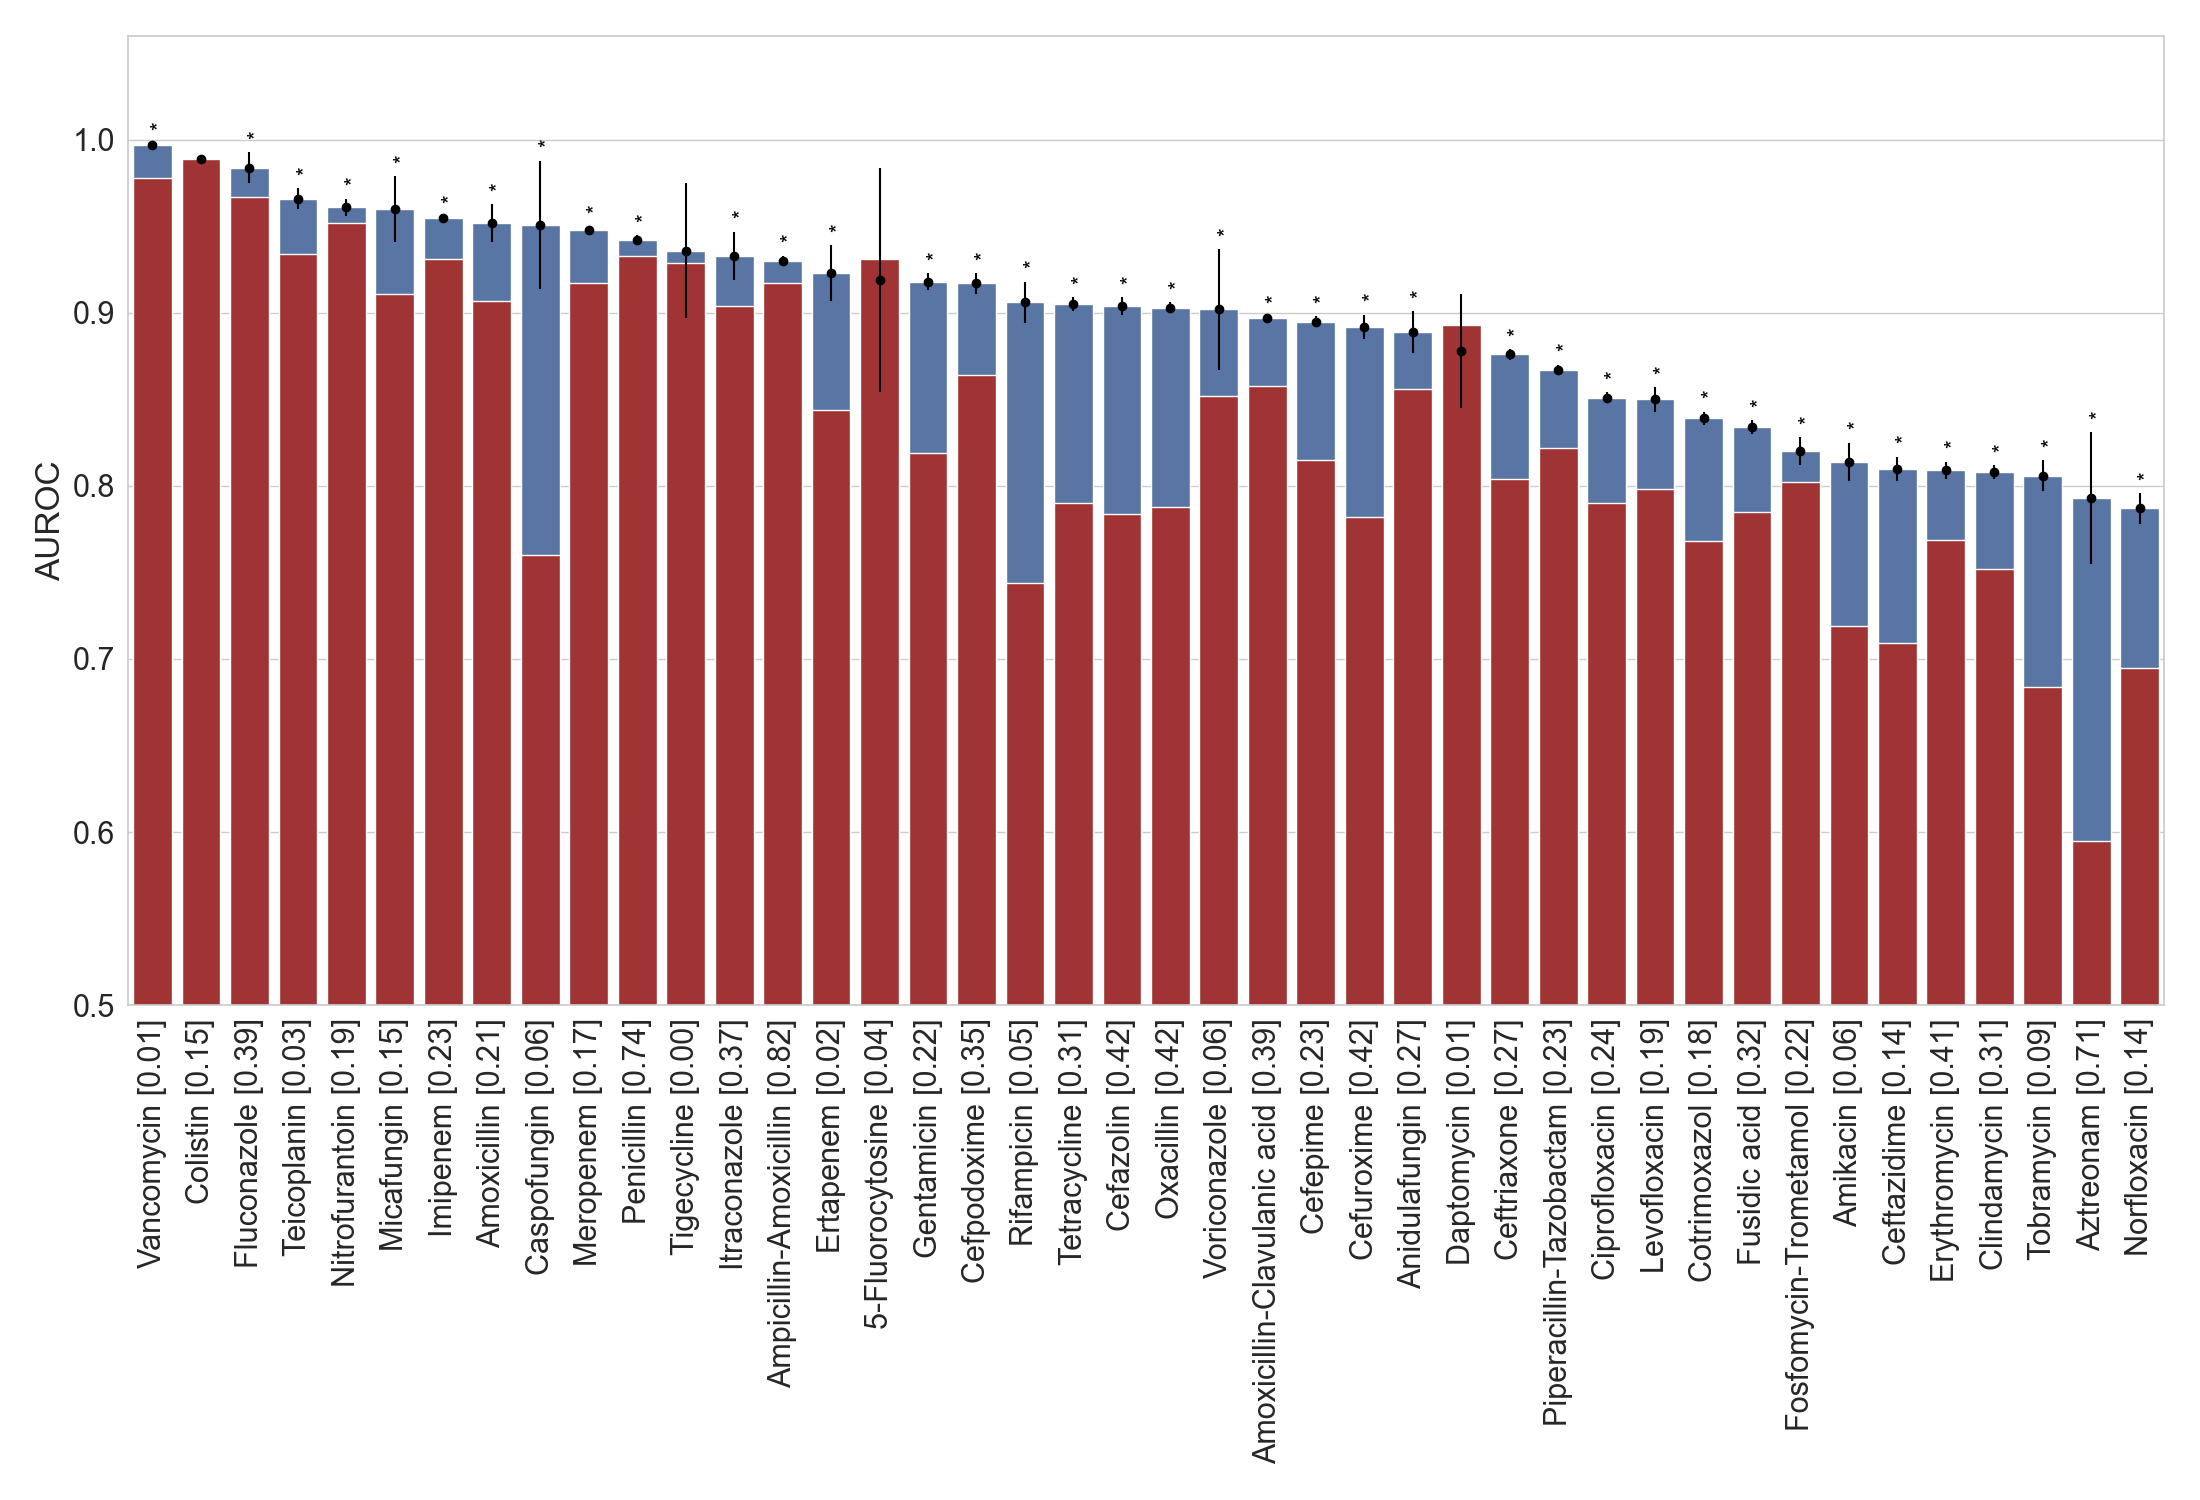
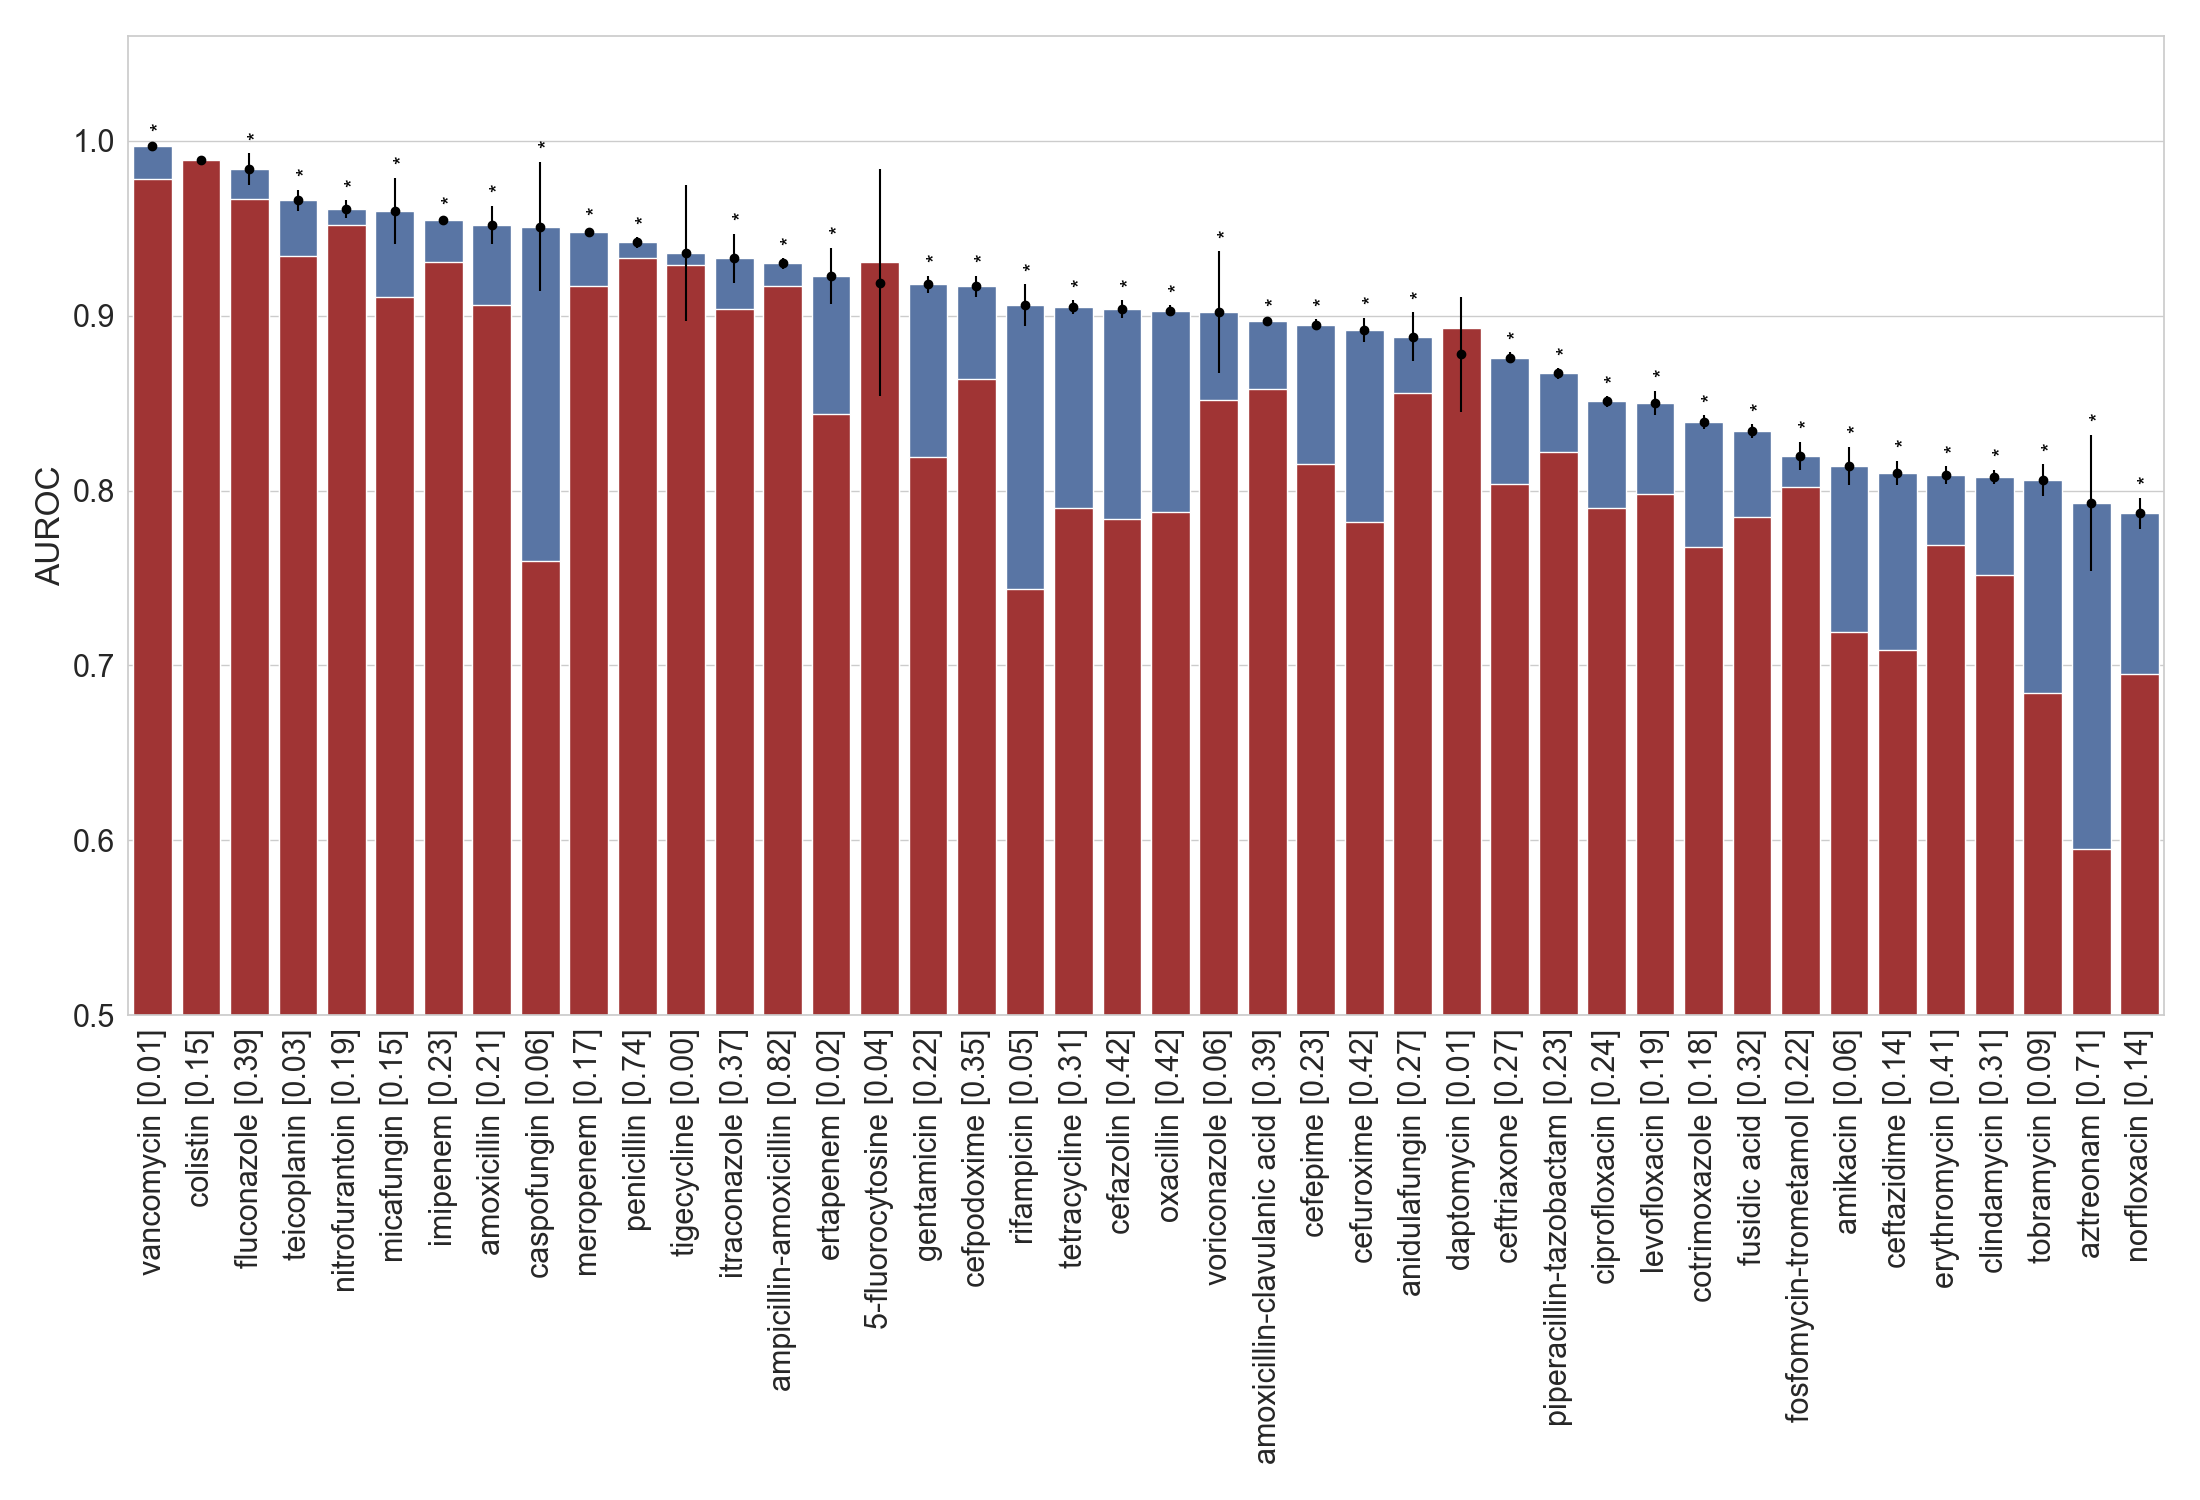
fig 2 lowercase antibiotics

diff --git a/amr_maldi_ml/plot_fig2_baseline_barplot.py b/amr_maldi_ml/plot_fig2_baseline_barplot.py
@@ -20,7 +20,7 @@ from sklearn.metrics import roc_auc_score
 
 def plot_figure2(args):
 
-    PATH_fig2 = '../results/fig2_baseline/'
+    PATH_fig2 = '../results/fig2_baseline/lr/'
 
     # --------------
     # create dataframe giving an overview of all files in path
@@ -126,6 +126,9 @@ def plot_figure2(args):
 
     values = values.sort_values(by=['auroc_all'], ascending=False)
     n_ab = len(values)
+    
+    values['antibiotic'] = values['antibiotic'].str.lower()
+    values['label'] = values['label'].str.lower()
 
     sns.set(style="whitegrid",
             font_scale=2)
@@ -156,7 +159,7 @@ def plot_figure2(args):
 
     for i, yval in enumerate(values['auroc_all'].values):
         ax.annotate(
-                    # '{:.1e}'.format(values['pvals'].iloc[i]),
+                    #'{:.1e}'.format(values['pvals'].iloc[i]),
                     pval_string[i],
                     xy=(i, yval),
                     xytext=(i-0.06,  # -0.2 for text, -0.06 for stars
